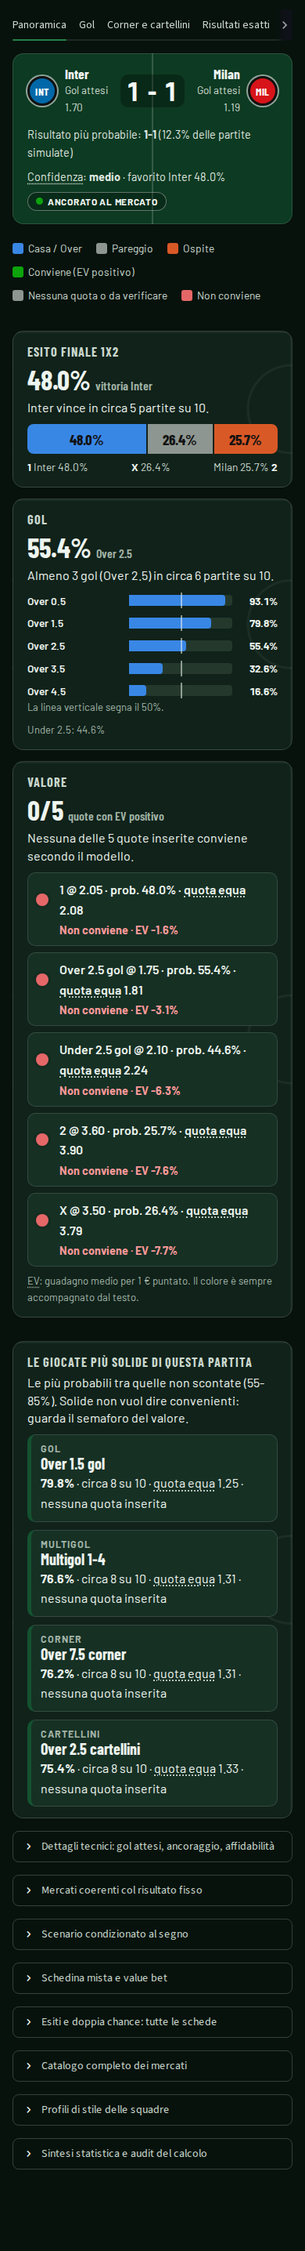
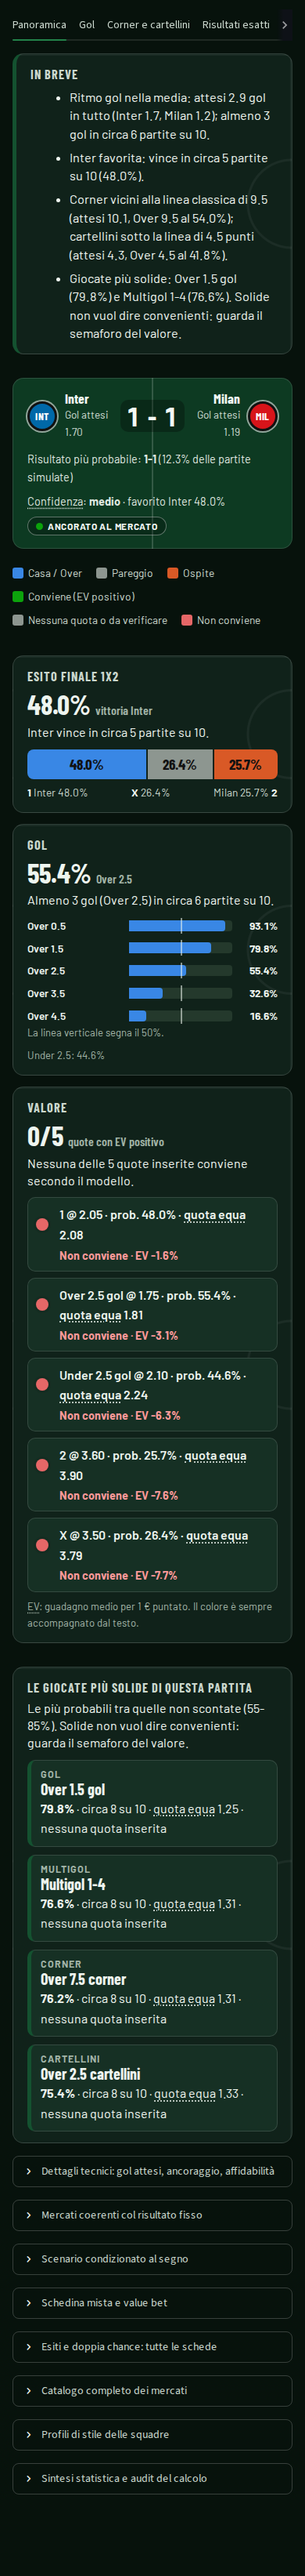
Aggiorna screenshot di Panoramica e Prestazioni e README

diff --git a/README.md b/README.md
@@ -186,7 +186,9 @@ restituito si incolla nel campo apposito e passa dal controllo di plausibilità.
 
 ## Dashboard
 
-Dopo la simulazione i risultati sono in sette tab: **Panoramica** (tabellone con
+Dopo la simulazione i risultati sono in sette tab: **Panoramica** («In breve»: 3-4
+frasi dai numeri già calcolati su ritmo gol, equilibrio, corner e cartellini
+rispetto alle linee più giocate 9.5 e 4.5, giocate più solide; tabellone con
 gol attesi, risultato più probabile e confidenza; barra 1X2; gol; semaforo del
 valore; «Le giocate più solide di questa partita»), **Gol** (Over/Under,
 gol per squadra, Multigol, primo tempo come barre con la linea del 50%),
